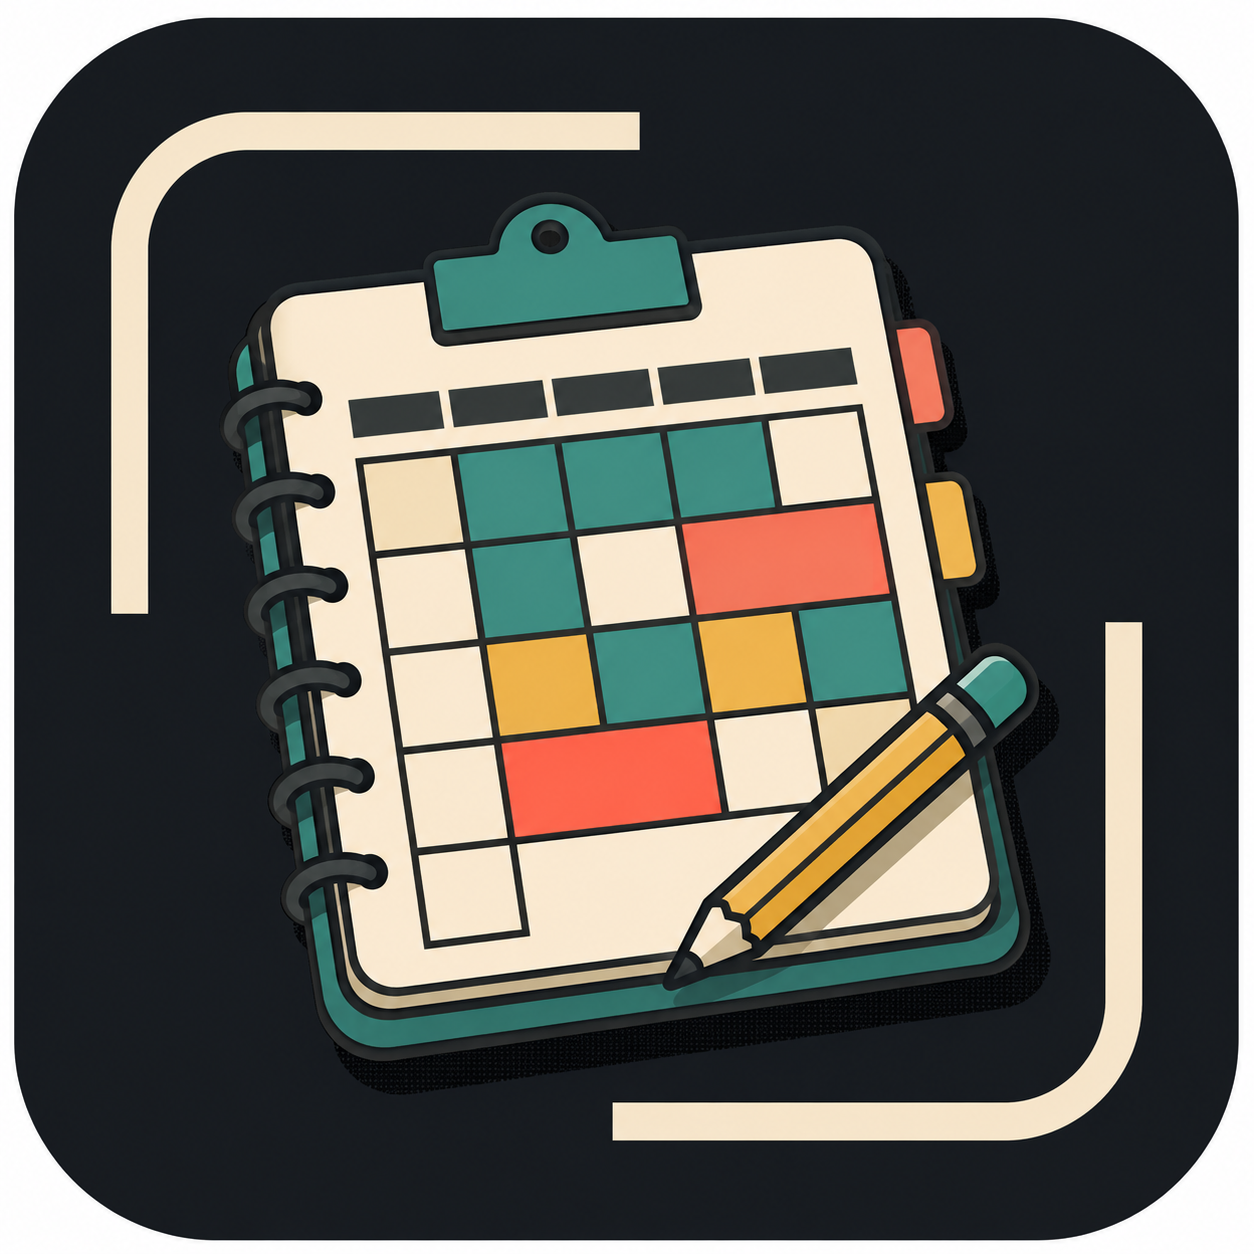
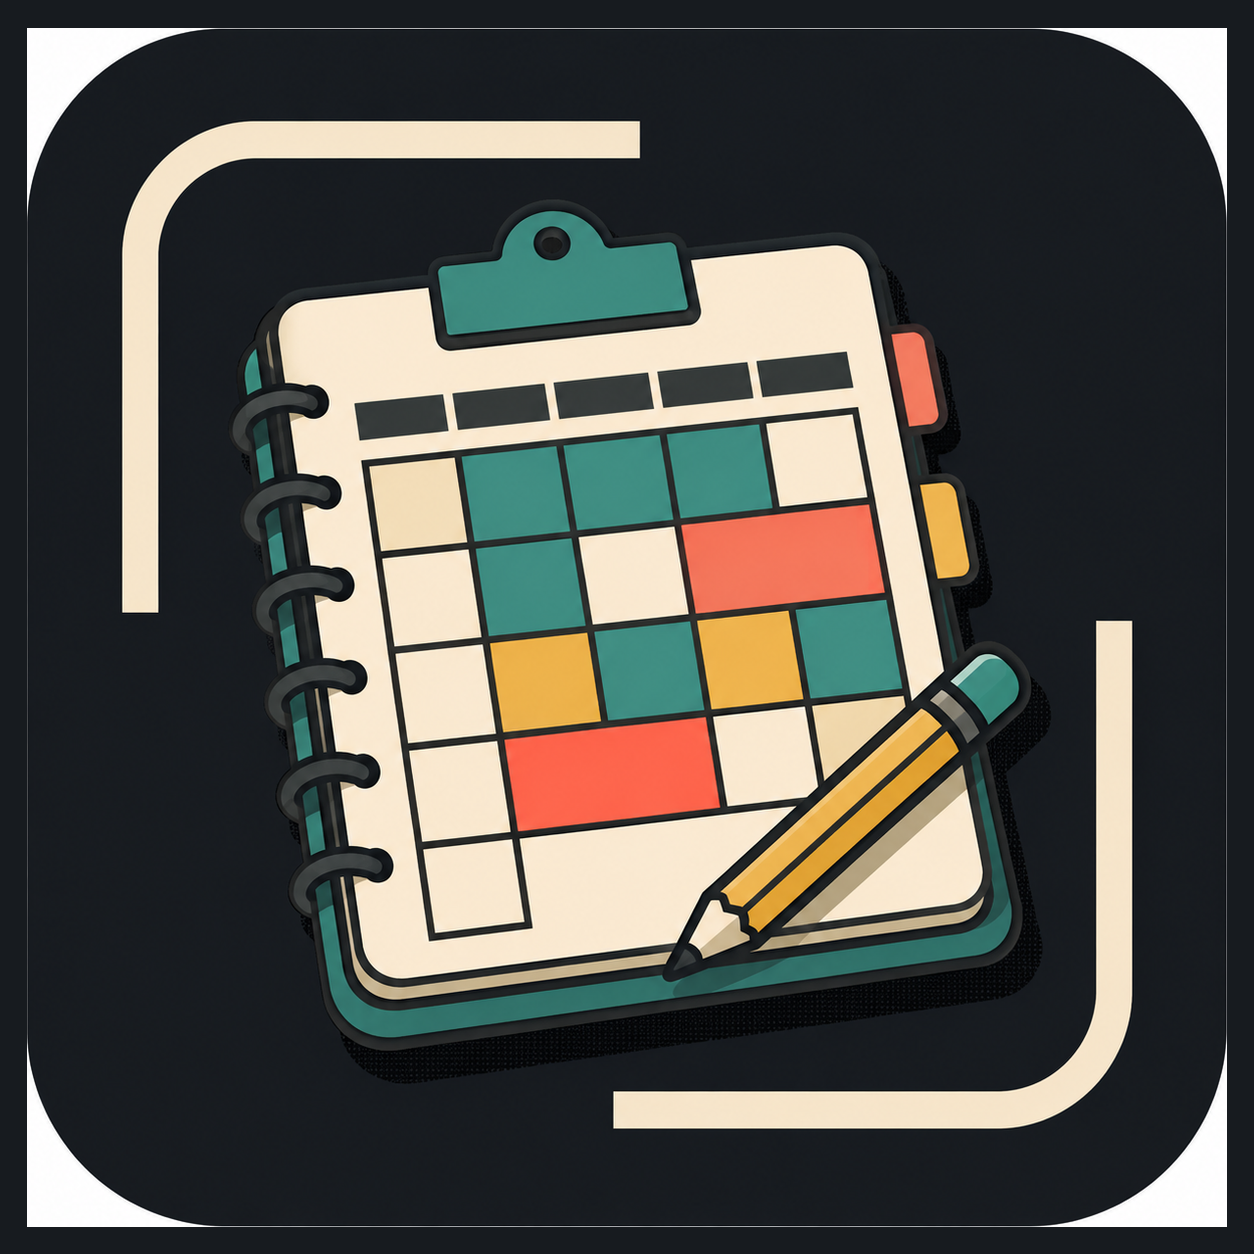
Specials Planner art: the white canvas goes charcoal, so no more white frame on dark pages
The only thumbnail of the 24 whose art sat on white instead of running
dark to the edge. Trimmed and reseated on its own charcoal (23,27,31).
Hub stamps to v4 since the content changed under its URL.

Claude-Session: https://claude.ai/code/session_01NremgFwmXv999GGSRaCkru

diff --git a/apps/index.html b/apps/index.html
@@ -155,27 +155,27 @@ footer .tip{color:var(--ink-2)}
       <div class="grid">
       <a class="card" href="./sitter-sheet/" data-find="sitter sheet everything the babysitter needs, on one page babysitter nanny childcare emergency contacts allergies"
          style="--app:#d2af61;--app-deep:#a17b0f">
-        <img class="swatch" src="./sitter-sheet/marketing/thumb-256.png?v=3" alt="" width="56" height="56" loading="lazy" decoding="async">
+        <img class="swatch" src="./sitter-sheet/marketing/thumb-256.png?v=4" alt="" width="56" height="56" loading="lazy" decoding="async">
         <span class="meta"><b>Sitter Sheet</b><span>Everything the babysitter needs, on one page</span></span>
       </a>
       <a class="card" href="./baby-log/" data-find="baby log feeds, sleep and nappies with one thumb at 3am newborn infant feeding nursing diaper tracker night"
          style="--app:#b7aae7;--app-deep:#8575b8">
-        <img class="swatch" src="./baby-log/marketing/thumb-256.png?v=3" alt="" width="56" height="56" loading="lazy" decoding="async">
+        <img class="swatch" src="./baby-log/marketing/thumb-256.png?v=4" alt="" width="56" height="56" loading="lazy" decoding="async">
         <span class="meta"><b>Baby Log</b><span>Feeds, sleep and nappies with one thumb at 3am</span></span>
       </a>
       <a class="card" href="./pill-schedule/" data-find="pill schedule a large-print medication card for the fridge medication meds prescription elderly dosage reminder"
          style="--app:#6ebfeb;--app-deep:#258cbc">
-        <img class="swatch" src="./pill-schedule/marketing/thumb-256.png?v=3" alt="" width="56" height="56" loading="lazy" decoding="async">
+        <img class="swatch" src="./pill-schedule/marketing/thumb-256.png?v=4" alt="" width="56" height="56" loading="lazy" decoding="async">
         <span class="meta"><b>Pill Schedule</b><span>A large-print medication card for the fridge</span></span>
       </a>
       <a class="card" href="./caregiver-log/" data-find="caregiver log a shared notebook for the family caring at home elderly parent hospice shift notes dementia care shared online cloud server link"
          style="--app:#a6b6c8;--app-deep:#728496">
-        <img class="swatch" src="./caregiver-log/marketing/thumb-256.png?v=3" alt="" width="56" height="56" loading="lazy" decoding="async">
+        <img class="swatch" src="./caregiver-log/marketing/thumb-256.png?v=4" alt="" width="56" height="56" loading="lazy" decoding="async">
         <span class="meta"><b>Caregiver Log</b><span>A shared notebook for the family caring at home</span><span class="tag">Shared online</span></span>
       </a>
       <a class="card" href="./grocery-list/" data-find="grocery list one list the whole household can add to shopping supermarket household share shared online cloud server link"
          style="--app:#68cc96;--app-deep:#079a60">
-        <img class="swatch" src="./grocery-list/marketing/thumb-256.png?v=3" alt="" width="56" height="56" loading="lazy" decoding="async">
+        <img class="swatch" src="./grocery-list/marketing/thumb-256.png?v=4" alt="" width="56" height="56" loading="lazy" decoding="async">
         <span class="meta"><b>Grocery List</b><span>One list the whole household can add to</span><span class="tag">Shared online</span></span>
       </a>
       </div>
@@ -186,17 +186,17 @@ footer .tip{color:var(--ink-2)}
       <div class="grid">
       <a class="card" href="./specials-planner/" data-find="specials planner art, music, pe, library. plan the whole year once teacher lesson plan rotation schedule elementary"
          style="--app:#f39a7e;--app-deep:#c26245">
-        <img class="swatch" src="./specials-planner/marketing/thumb-256.png?v=3" alt="" width="56" height="56" loading="lazy" decoding="async">
+        <img class="swatch" src="./specials-planner/marketing/thumb-256.png?v=4" alt="" width="56" height="56" loading="lazy" decoding="async">
         <span class="meta"><b>Specials Planner</b><span>Art, music, PE, library. Plan the whole year once</span></span>
       </a>
       <a class="card" href="./sub-plans/" data-find="sub plans your substitute folder, ready before you are sick teacher substitute emergency plans binder classroom"
          style="--app:#79c6b0;--app-deep:#36947d">
-        <img class="swatch" src="./sub-plans/marketing/thumb-256.png?v=3" alt="" width="56" height="56" loading="lazy" decoding="async">
+        <img class="swatch" src="./sub-plans/marketing/thumb-256.png?v=4" alt="" width="56" height="56" loading="lazy" decoding="async">
         <span class="meta"><b>Sub Plans</b><span>Your substitute folder, ready before you are sick</span></span>
       </a>
       <a class="card" href="./grade-sheet/" data-find="grade sheet grades for every class you teach, on this device only gradebook grades teacher marks roster rubric report card averages specials elementary substitute homeschool"
          style="--app:#83bed7;--app-deep:#478ca6">
-        <img class="swatch" src="./grade-sheet/marketing/thumb-256.png?v=3" alt="" width="56" height="56" loading="lazy" decoding="async">
+        <img class="swatch" src="./grade-sheet/marketing/thumb-256.png?v=4" alt="" width="56" height="56" loading="lazy" decoding="async">
         <span class="meta"><b>Grade Sheet</b><span>Grades for every class you teach, on this device only</span></span>
       </a>
       </div>
@@ -207,37 +207,37 @@ footer .tip{color:var(--ink-2)}
       <div class="grid">
       <a class="card" href="./signup-sheets/" data-find="signup sheets claim a spot in seconds, no account needed volunteer potluck conference slots roster shifts shared online cloud server link"
          style="--app:#f49d55;--app-deep:#c06700">
-        <img class="swatch" src="./signup-sheets/marketing/thumb-256.png?v=3" alt="" width="56" height="56" loading="lazy" decoding="async">
+        <img class="swatch" src="./signup-sheets/marketing/thumb-256.png?v=4" alt="" width="56" height="56" loading="lazy" decoding="async">
         <span class="meta"><b>Signup Sheets</b><span>Claim a spot in seconds, no account needed</span><span class="tag">Shared online</span></span>
       </a>
       <a class="card" href="./team-parent/" data-find="team parent one link for the whole season youth sports snack schedule roster coach league shared online cloud server link"
          style="--app:#84b6ff;--app-deep:#4481da">
-        <img class="swatch" src="./team-parent/marketing/thumb-256.png?v=3" alt="" width="56" height="56" loading="lazy" decoding="async">
+        <img class="swatch" src="./team-parent/marketing/thumb-256.png?v=4" alt="" width="56" height="56" loading="lazy" decoding="async">
         <span class="meta"><b>Team Parent</b><span>One link for the whole season</span><span class="tag">Shared online</span></span>
       </a>
       <a class="card" href="./secret-santa/" data-find="secret santa draw names without the group-chat chaos gift exchange christmas holiday office party"
          style="--app:#f990a5;--app-deep:#c75771">
-        <img class="swatch" src="./secret-santa/marketing/thumb-256.png?v=3" alt="" width="56" height="56" loading="lazy" decoding="async">
+        <img class="swatch" src="./secret-santa/marketing/thumb-256.png?v=4" alt="" width="56" height="56" loading="lazy" decoding="async">
         <span class="meta"><b>Secret Santa</b><span>Draw names without the group-chat chaos</span></span>
       </a>
       <a class="card" href="./wedding-timeline/" data-find="wedding day timeline so nobody asks when is hair again? wedding schedule vendors bridal party run of show"
          style="--app:#d3a2c7;--app-deep:#a26e95">
-        <img class="swatch" src="./wedding-timeline/marketing/thumb-256.png?v=3" alt="" width="56" height="56" loading="lazy" decoding="async">
+        <img class="swatch" src="./wedding-timeline/marketing/thumb-256.png?v=4" alt="" width="56" height="56" loading="lazy" decoding="async">
         <span class="meta"><b>Wedding Day Timeline</b><span>So nobody asks &ldquo;when is hair again?&rdquo;</span></span>
       </a>
       <a class="card" href="./seating-chart/" data-find="seating chart tables, seats and who must not sit together wedding reception banquet place cards floor plan"
          style="--app:#c8a2e5;--app-deep:#976db5">
-        <img class="swatch" src="./seating-chart/marketing/thumb-256.png?v=3" alt="" width="56" height="56" loading="lazy" decoding="async">
+        <img class="swatch" src="./seating-chart/marketing/thumb-256.png?v=4" alt="" width="56" height="56" loading="lazy" decoding="async">
         <span class="meta"><b>Seating Chart</b><span>Tables, seats and who must not sit together</span></span>
       </a>
       <a class="card" href="./bracket-maker/" data-find="bracket maker game night, settled properly tournament elimination playoff league office pool"
          style="--app:#dbad3c;--app-deep:#a27b00">
-        <img class="swatch" src="./bracket-maker/marketing/thumb-256.png?v=3" alt="" width="56" height="56" loading="lazy" decoding="async">
+        <img class="swatch" src="./bracket-maker/marketing/thumb-256.png?v=4" alt="" width="56" height="56" loading="lazy" decoding="async">
         <span class="meta"><b>Bracket Maker</b><span>Game night, settled properly</span></span>
       </a>
       <a class="card" href="./wheel-picker/" data-find="wheel picker spin to choose. no ads spinning back random name picker classroom raffle prize chore"
          style="--app:#fc88c2;--app-deep:#ca4c90">
-        <img class="swatch" src="./wheel-picker/marketing/thumb-256.png?v=3" alt="" width="56" height="56" loading="lazy" decoding="async">
+        <img class="swatch" src="./wheel-picker/marketing/thumb-256.png?v=4" alt="" width="56" height="56" loading="lazy" decoding="async">
         <span class="meta"><b>Wheel Picker</b><span>Spin to choose. No ads spinning back</span></span>
       </a>
       </div>
@@ -248,27 +248,27 @@ footer .tip{color:var(--ink-2)}
       <div class="grid">
       <a class="card" href="./scan-to-pdf/" data-find="scan to pdf no watermark, no ransom, no upload scanner document camera receipt paperwork"
          style="--app:#52c8d1;--app-deep:#00939c">
-        <img class="swatch" src="./scan-to-pdf/marketing/thumb-256.png?v=3" alt="" width="56" height="56" loading="lazy" decoding="async">
+        <img class="swatch" src="./scan-to-pdf/marketing/thumb-256.png?v=4" alt="" width="56" height="56" loading="lazy" decoding="async">
         <span class="meta"><b>Scan to PDF</b><span>No watermark, no ransom, no upload</span></span>
       </a>
       <a class="card" href="./pdf-tools/" data-find="pdf tools merge, split and rotate. nothing gets uploaded combine pages reorder delete extract"
          style="--app:#a0adff;--app-deep:#6d78d1">
-        <img class="swatch" src="./pdf-tools/marketing/thumb-256.png?v=3" alt="" width="56" height="56" loading="lazy" decoding="async">
+        <img class="swatch" src="./pdf-tools/marketing/thumb-256.png?v=4" alt="" width="56" height="56" loading="lazy" decoding="async">
         <span class="meta"><b>PDF Tools</b><span>Merge, split and rotate. Nothing gets uploaded</span></span>
       </a>
       <a class="card" href="./image-compressor/" data-find="image compressor shrink photos without uploading them resize optimise jpeg png file size email"
          style="--app:#a7b5ca;--app-deep:#748399">
-        <img class="swatch" src="./image-compressor/marketing/thumb-256.png?v=3" alt="" width="56" height="56" loading="lazy" decoding="async">
+        <img class="swatch" src="./image-compressor/marketing/thumb-256.png?v=4" alt="" width="56" height="56" loading="lazy" decoding="async">
         <span class="meta"><b>Image Compressor</b><span>Shrink photos without uploading them</span></span>
       </a>
       <a class="card" href="./signature-maker/" data-find="signature maker draw it once, use it everywhere sign document esign transparent png contract"
          style="--app:#aeb4c1;--app-deep:#7b828f">
-        <img class="swatch" src="./signature-maker/marketing/thumb-256.png?v=3" alt="" width="56" height="56" loading="lazy" decoding="async">
+        <img class="swatch" src="./signature-maker/marketing/thumb-256.png?v=4" alt="" width="56" height="56" loading="lazy" decoding="async">
         <span class="meta"><b>Signature Maker</b><span>Draw it once, use it everywhere</span></span>
       </a>
       <a class="card" href="./qr-maker/" data-find="qr maker codes that never expire qr code wifi menu flyer link generator"
          style="--app:#89c782;--app-deep:#509549">
-        <img class="swatch" src="./qr-maker/marketing/thumb-256.png?v=3" alt="" width="56" height="56" loading="lazy" decoding="async">
+        <img class="swatch" src="./qr-maker/marketing/thumb-256.png?v=4" alt="" width="56" height="56" loading="lazy" decoding="async">
         <span class="meta"><b>QR Maker</b><span>Codes that never expire</span></span>
       </a>
       </div>
@@ -279,17 +279,17 @@ footer .tip{color:var(--ink-2)}
       <div class="grid">
       <a class="card" href="./moving-boxes/" data-find="moving boxes which box has the can opener? move house packing labels inventory qr"
          style="--app:#d9ab71;--app-deep:#a87632">
-        <img class="swatch" src="./moving-boxes/marketing/thumb-256.png?v=3" alt="" width="56" height="56" loading="lazy" decoding="async">
+        <img class="swatch" src="./moving-boxes/marketing/thumb-256.png?v=4" alt="" width="56" height="56" loading="lazy" decoding="async">
         <span class="meta"><b>Moving Boxes</b><span>Which box has the can opener?</span></span>
       </a>
       <a class="card" href="./packing-list/" data-find="packing list never forget the charger again travel trip suitcase checklist holiday"
          style="--app:#55cac1;--app-deep:#00958d">
-        <img class="swatch" src="./packing-list/marketing/thumb-256.png?v=3" alt="" width="56" height="56" loading="lazy" decoding="async">
+        <img class="swatch" src="./packing-list/marketing/thumb-256.png?v=4" alt="" width="56" height="56" loading="lazy" decoding="async">
         <span class="meta"><b>Packing List</b><span>Never forget the charger again</span></span>
       </a>
       <a class="card" href="./home-inventory/" data-find="home inventory photograph it before you need it insurance claim contents valuables fire flood"
          style="--app:#aabd88;--app-deep:#778a50">
-        <img class="swatch" src="./home-inventory/marketing/thumb-256.png?v=3" alt="" width="56" height="56" loading="lazy" decoding="async">
+        <img class="swatch" src="./home-inventory/marketing/thumb-256.png?v=4" alt="" width="56" height="56" loading="lazy" decoding="async">
         <span class="meta"><b>Home Inventory</b><span>Photograph it before you need it</span></span>
       </a>
       </div>
@@ -300,7 +300,7 @@ footer .tip{color:var(--ink-2)}
       <div class="grid">
       <a class="card" href="./bill-splitter/" data-find="bill splitter split it, settle up, nothing leaves your device split expenses group trip dinner iou owe"
          style="--app:#6ec2da;--app-deep:#2290a9">
-        <img class="swatch" src="./bill-splitter/marketing/thumb-256.png?v=3" alt="" width="56" height="56" loading="lazy" decoding="async">
+        <img class="swatch" src="./bill-splitter/marketing/thumb-256.png?v=4" alt="" width="56" height="56" loading="lazy" decoding="async">
         <span class="meta"><b>Bill Splitter</b><span>Split it, settle up, nothing leaves your device</span></span>
       </a>
       </div>
